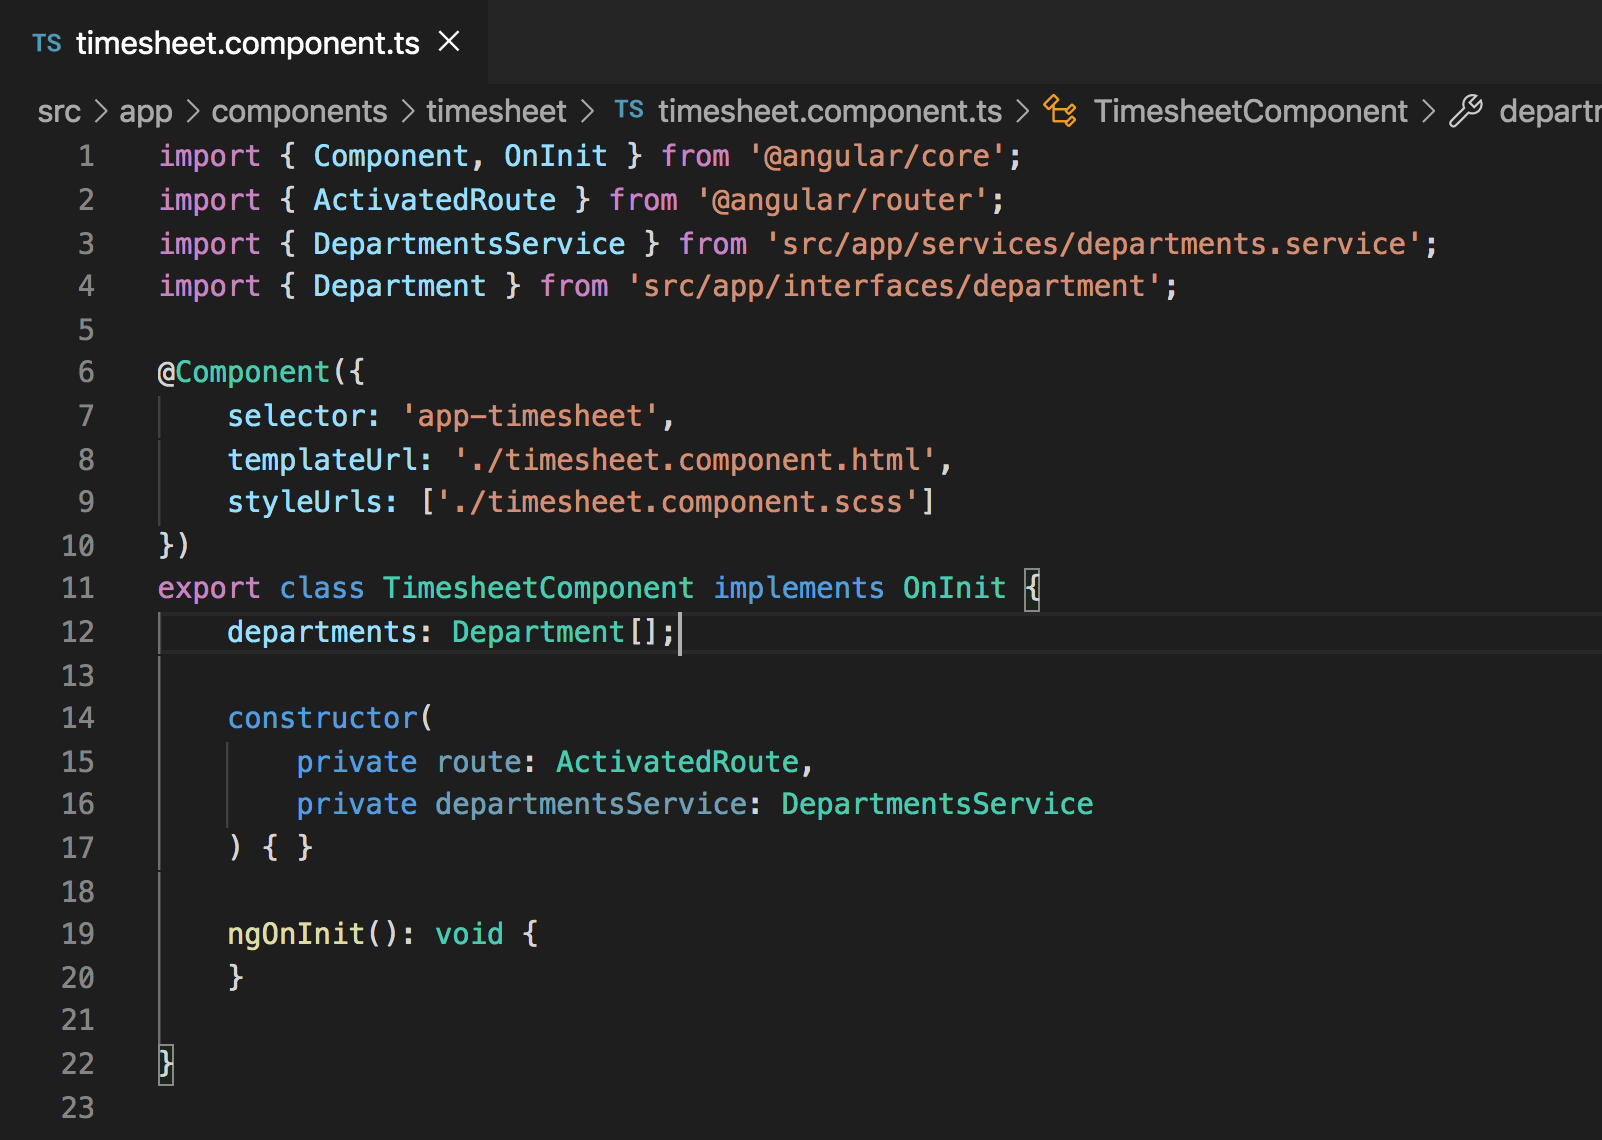
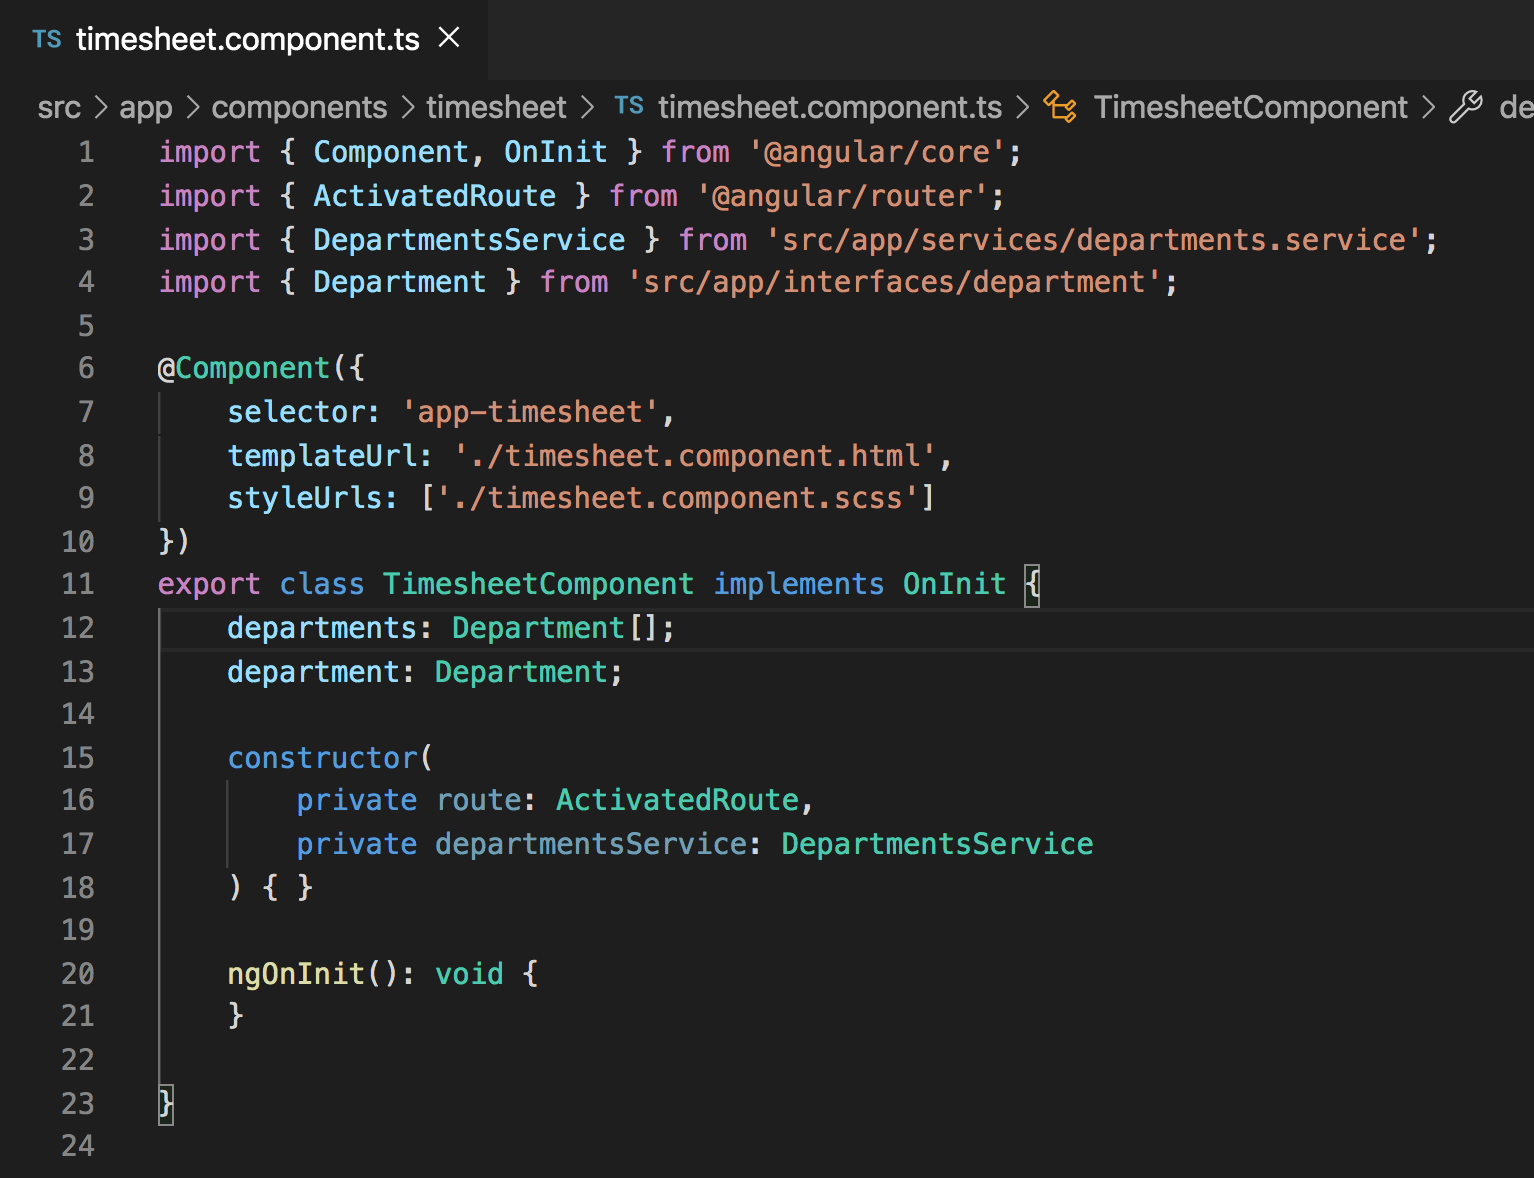
Finished unit 6

Changed region(s): [[0.0306, 0.0307, 1.0, 0.9825], [0.0919, 0.307, 0.7047, 0.9518]]

diff --git a/unit-06/routing-timesheet-creation.md b/unit-06/routing-timesheet-creation.md
@@ -36,7 +36,7 @@ Once you have the `goToDepartment()` function and the `(click)` event added to y
 ![](img/url_param.png)
 
 
-## Display Department Depending on Route Param
+## Find the department that matches the id param
 
 Sense we now have additional information in the form of a param that is attached to the URL, our next goal is to display the department name associated with that param `id` once we get to the `TimesheetComponent` route. See the next image for what we are trying to accomplish.
 
@@ -49,10 +49,90 @@ Don't forget the `import { ActivatedRoute } from '@angular/router';` import at t
 
 ![](img/activated_route.png)
 
-In order for us to display the correct department name at the top of the `timesheet` page, we need to first retrieve the list of departments from our `DepartmentsService` and store them in a variable within our `TimesheetComponent`
+In order for us to display the correct department name at the top of the `timesheet` page, we need to first retrieve the list of departments from our `DepartmentsService` and store them in a variable within our `TimesheetComponent`. With that data we will be able to find the correct department to match the `id` param in the URL.
 
-Inject the `DepartmentsService` into your `TimesheetComponent` constructor and create a `departments: Department[];` variable. See the image below for what your `timesheet.component.ts` file should currently look like. Don't forget the `DepartmentsService` and `Department` imports at the top of the component.
+Inject the `DepartmentsService` into your `TimesheetComponent` constructor and create two variables, a `departments: Department[];` variable and a `department: Department;`. See the image below for what your `timesheet.component.ts` file should currently look like. Don't forget the `DepartmentsService` and `Department` imports at the top of the component.
 
 ![](img/service_in_timesheet.png)
+
+Next replace the `ngOnInit` code that is within the `timesheet.component.ts` file with the code below.
+
+```
+ngOnInit(): void {
+    this.departments = this.departmentsService.departments;
+    this.department = this.departments.find(department => department.id === this.route.snapshot.params['id']);
+}
+```
+
+![](img/find_department.png)
+
+Within the `ngOnInit` we are first setting the `departments` variable equal to the list of departments from our `DepartmentsService`. After we have done that, we perform a `.find()` and look for the department within the `departments` variable where the `id` of the department matches the `id` paramater from the current route. `route` in this case is the `ActivatedRoute` that we injected into the `TimesheetComponent`. On the `ActivatedRoute` we are provided with a `snapshot` that gives us all kinds of information about the current route. We care specifically about the `params` property which holds the `id` that we attached to it from the previous `departments` route. Once the `.find()` method finds the department that has an `id` that matches the activated route `id` param, we set the `department` variable equal to that value.
+
+Once the `department` variable has been set within the `timesheet.component.ts`, we can display information about that department in the `timesheet.component.html` file using interpolation. Let's do that next.
+
+## Acceptance Test
+
+Make sure that when you run `ng serve`, that you don't have any errors up to this point.
+
+
+## Display Department Depending on Route Param
+
+Paste the below code into your `timesheet.component.html` file.
+
+```
+<div class="main-container">
+    <div class="cards">
+        <h2>{{department.name}}</h2>
+    </div>
+</div>
+```
+
+You should see that when you navigate between clicking a department, the house icon, and a different department, that the title in the view changes.
+
+Let's add a little bit of styling to center the content. Notice that there is a `main-container` class on the parent div. We are going to add styling for that class within the `styles.scss` file. We're doing it in the `styles.scss` file rather than the component file, because we want it to be applied to multiple components.
+
+Add this styling below the `body` styling in the `styles.scss` file.
+
+```
+.main-container {
+    display: flex;
+    align-items: center;
+    height: calc(100% - 64px);
+}
+```
+
+![](img/main_container_class.png)
+
+While we're at it, let's add the `main-container` class onto the parent `div` of the `departments.component.html` file as well.
+
+![](img/departments_main_container.png)
+
+There is one more piece of styling that we need to add to the `timesheet.component.scss` file to get the header to be centered horizontally. Add the style below to the `timesheet.component.scss` file.
+
+```
+h2 {
+    text-align: center;
+}
+
+.cards {
+    margin: auto;
+}
+```
+
+![](img/center_header_styling.png)
+
+
+## Acceptance Test
+
+With all of the new styling added, the `departments` and `timesheet` pages should look like the images below.
+
+![](img/departments_centered.png)
+
+![](img/timesheet_centered.png)
+
+
+
+
+
 
 
